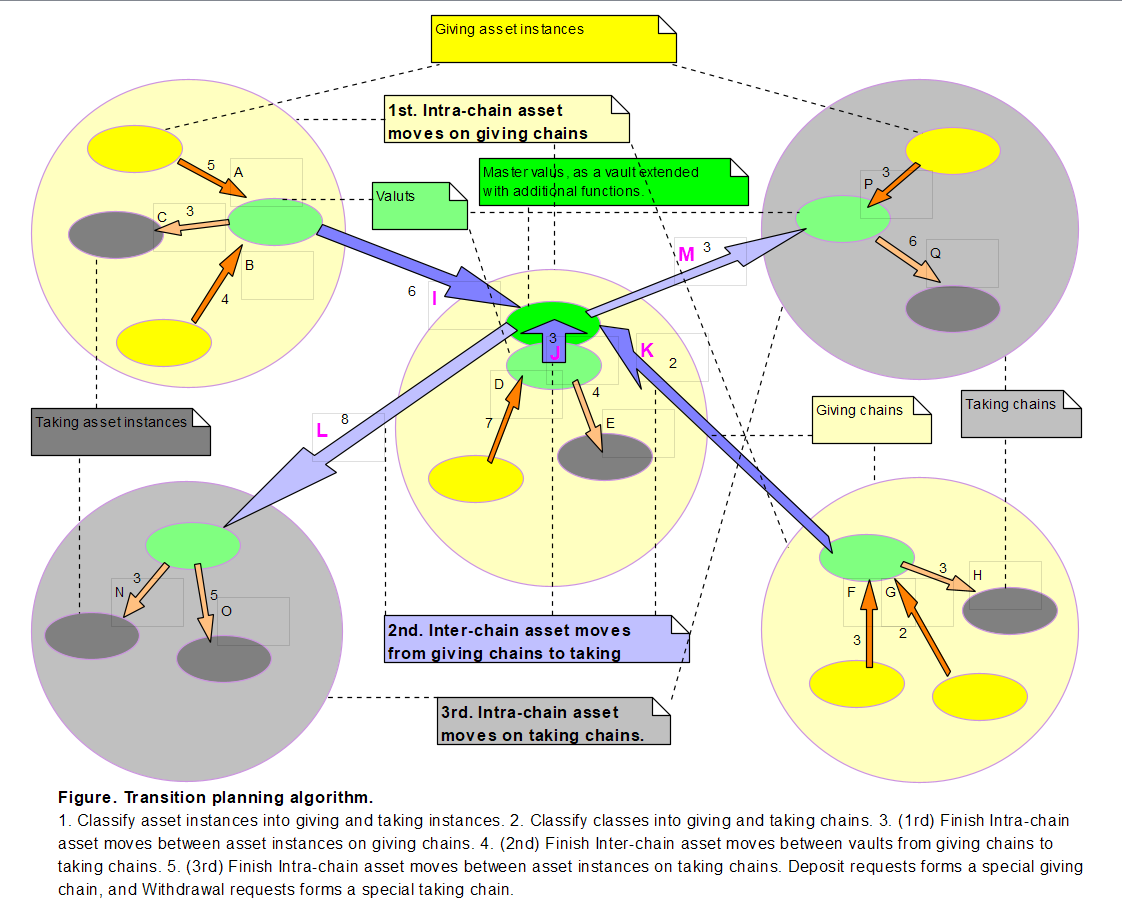
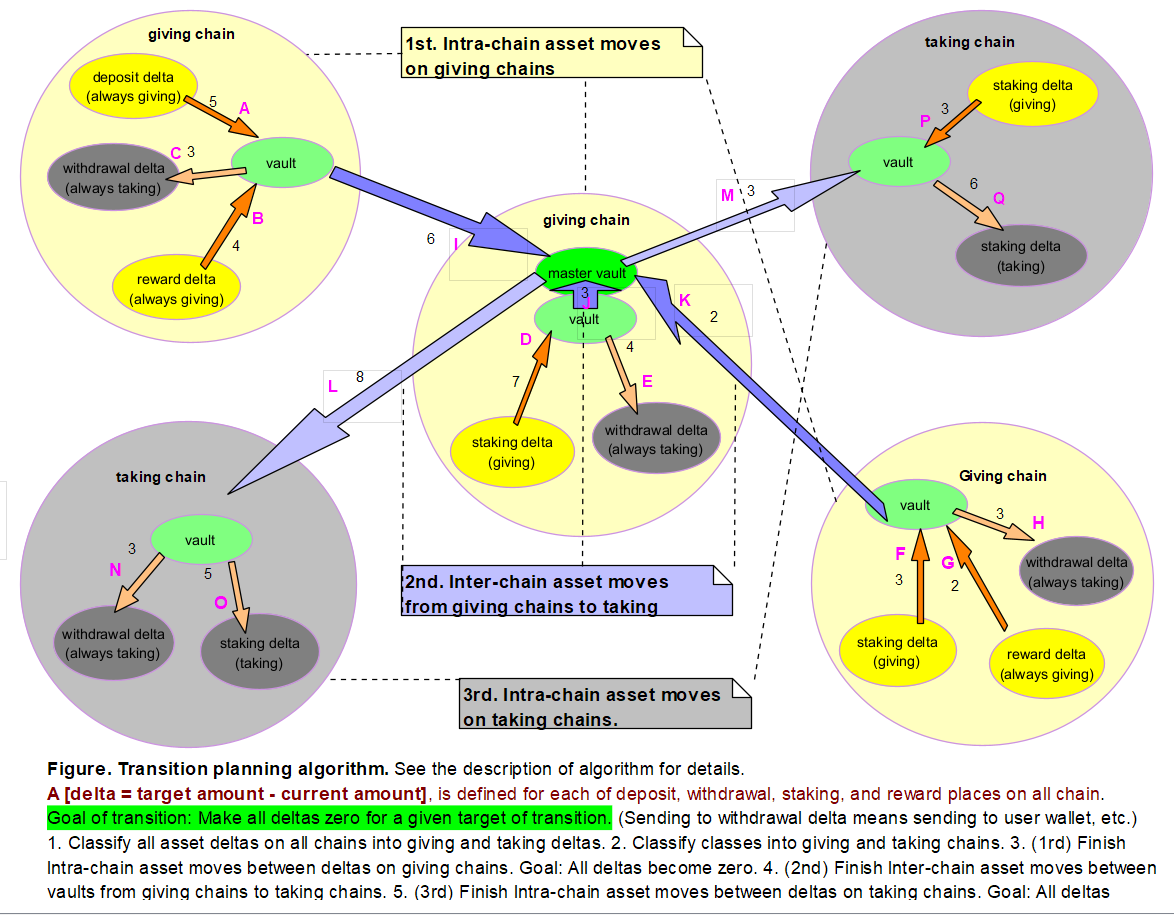
diagram

diff --git a/algotory Feb 18.md b/algotory Feb 18.md
@@ -1,0 +1,134 @@
+# Demo version Algorithm as Story
+
+## Disclaimer
+
+The terminology maybe different from official architectural doc, which aims for product quality.
+The terminology here stick to the original terminology we coined for quick-and-dirty demo coding.
+
+Terminology Update:
+INMOZ --> MozaicLP = mLP
+
+## Features
+
+User can Book Deposit.
+User can Book Withdraw.
+Control Center (as the owner of contract) run Optimization Session.
+NOTE: Demo Limitation - In product version, the user should have choice to run Optimization Session to have his deposits/withdrawals accepted early at the cost of paying the gas fee.
+
+### Advanced Features (Skip Now)
+
+- User can cancel request (possible when the request is in pending status)
+  Skipping because the secondary chain should send snapshot LZ message again. (Avoiding LZ messages as much as possible.)
+
+## Story
+
+### 1. User Books Deposit
+
+- User call `addDepositRequest(amountLD, depositTokenAddr, destChainId)`
+  - `poolInfos[poolIndex].coinAddress` indicates the stablecoin address
+  - `amountLD` indicates the amount.
+
+This adds to pending deposit requests buffer.
+
+### 2. User Books Withdraw
+
+- User call `addWithdrawRequest(amountMLP, dstTokenAddr, dstChainId)`
+  - `amountMLP` - returning mLP amount to get back stable coin.
+  - `dstTokenAddr` - the stable coin token address to get.
+  - `dstChainId` - the destination chain ID of stable coin to get.
+
+This adds to pending withdraw requests buffer.
+Guard condition: overburning should be prevented. Meaning pending mLP to return <= owned mLP
+
+### 3. Optimization Session
+
+#### 3-1. Session Start (Protocol Status: Idle -> Optimizing)
+
+Control Center calls `PrimaryVault.initOptimizationSession()`
+
+- PrimaryVault.initOptimizationSession():
+  - Guard condition: Check if current protocol status is idle. Otherwise reject.
+  - Set protocol status as `Optimizing`
+  - PrimaryVault trigger `self.snapshotAndReport()`
+
+#### 2. Take Snapshot and Report
+
+Control Center calls `Vault.snapshotAndReport()` on each (Secondary) Vault
+
+Each (Secondary Vault) does the following:
+
+- Take snapshot of the asset amounts
+    This means turn pending deposits/Withdraws into `staged state`.
+
+- Prepare snapshot report.
+  ```sol
+      struct SnapshotReport {
+        uint256 depositRequestAmountSD;
+        uint256 withdrawRequestAmountMLP;
+        uint256 totalStargate;
+        uint256 totalStablecoin;
+        uint256 totalMozaicLp; // Mozaic "LP"
+    }
+  ```
+
+- Send snapshot report to primary vault (LayerZero communication)
+
+#### 3. Determine MLP per Stablecoin Rate
+
+When all sync responses reach to primary vault, it determines the following
+mozaicLpPerStablecoin = totalMozLp / (totalStablecoin + totalStargate*stargatePrice)
+
+This means that we want to give out mLP in a fair way to new depositors.
+(And also be fair to Withdrawers)
+
+#### 4. Execute Asset Transition
+
+Asset Transition decision depends on snapshot reports.
+And thus Asset Transision Subsession starts after all snapshot reports arrive primary vault.
+Asset Transision Subsession runs before settling requests for two purposes:
+
+- Have enough stablecoin to return, in order to satisfy Withdraw request
+- Update Staking Assets to maximize profit rate
+
+The control center call each vault's `executeActions()` method with proposed actions to execute (=order).
+
+Each asset transition action should guarantee that no value slip out of Mozaic.
+
+#### Special Note: The deposit/withdraw requests made while syncing are booked as `pending requests`.
+
+Every deposit/withdraw request goes through the following lifecycle.
+Pending --> Staged --> Accepted
+
+#### 5. Settle Requests
+
+Control Center calls primaryVault.settleRequestsAllVaults()
+
+primaryVault.settleRequestsAllVaults() send LayerZero message to secondary vaults with mozaicLpPerStablecoin value, which will in turn,
+call secondaryVault.settleRequests(mozaicLpPerStablecoin)
+
+secondaryVault.settleRequests(mozaicLpPerStablecoin) settle deposit and withdraw requests
+
+- Settle deposit request by giving mLP as mozaicLpPerStablecoin rate.
+- Settle withdraw request by burning the mLP and giving the stablecoin as mozaicLpPerStablecoin rate.
+- When there's not enough stablecoin to give for a withdraw request, we accept/burn partial amount of mLP. 
+- Each secondary vault send simple LayerZero message to primary vault, saying all requests for the vault are settled.
+
+As a result:
+The staged requests are now settled. And the users mLP amount gets updated.
+The primary vault will get notified via LayerZero message that all requests are settled
+
+#### 6. Close Session
+
+Happens when: primary vault received REQUESTS_SETTLED messages from all secondary vaults.
+
+- Set protocol status as `Idle`
+- Clear snapshotReports. (flags) Getting ready to accept new SnapshotReports.
+
+# At every moment, User state is composed of
+
+- pending deposit requests (amount in USDC, USDT, ...)
+- pending withdraw requests (amount in mLP)
+- staged deposit requests (amount in USDC, USDT, ...)
+- staged withdraw requests (amount in mLP)
+- owned amount in mLP (=mLP balance)
+- the owned mLP assessed as stablecoin (USDC)
